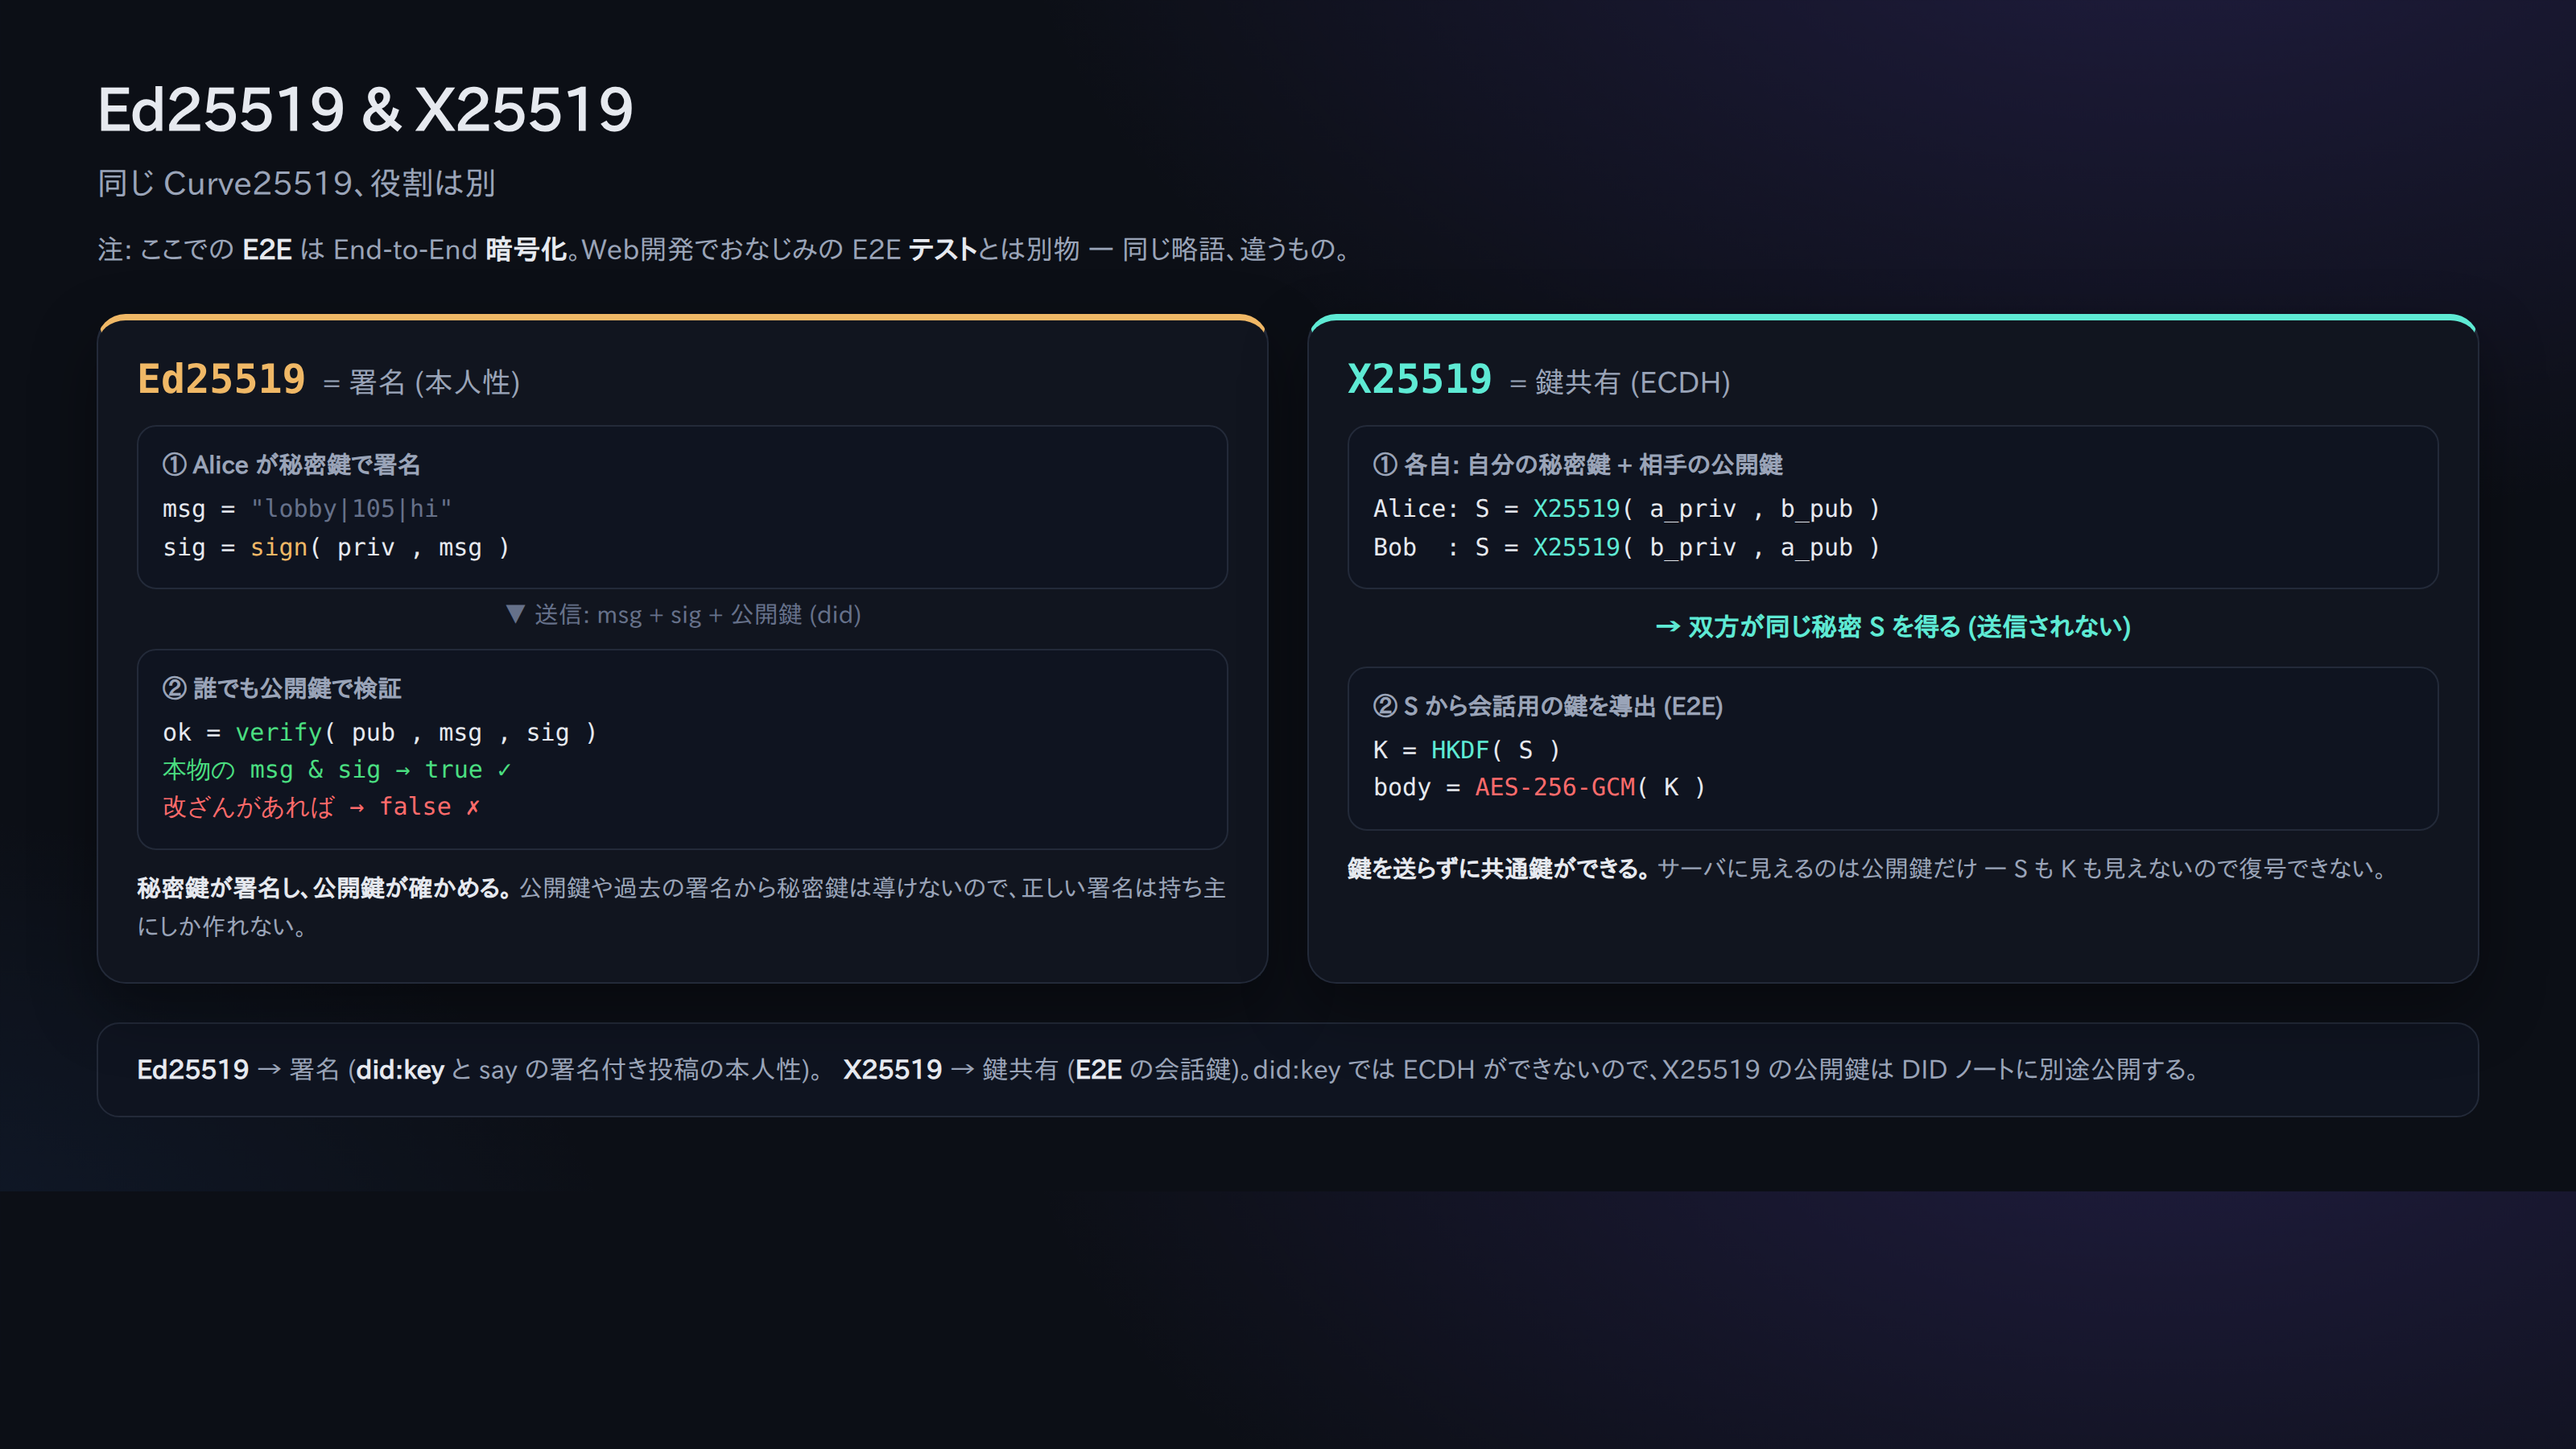
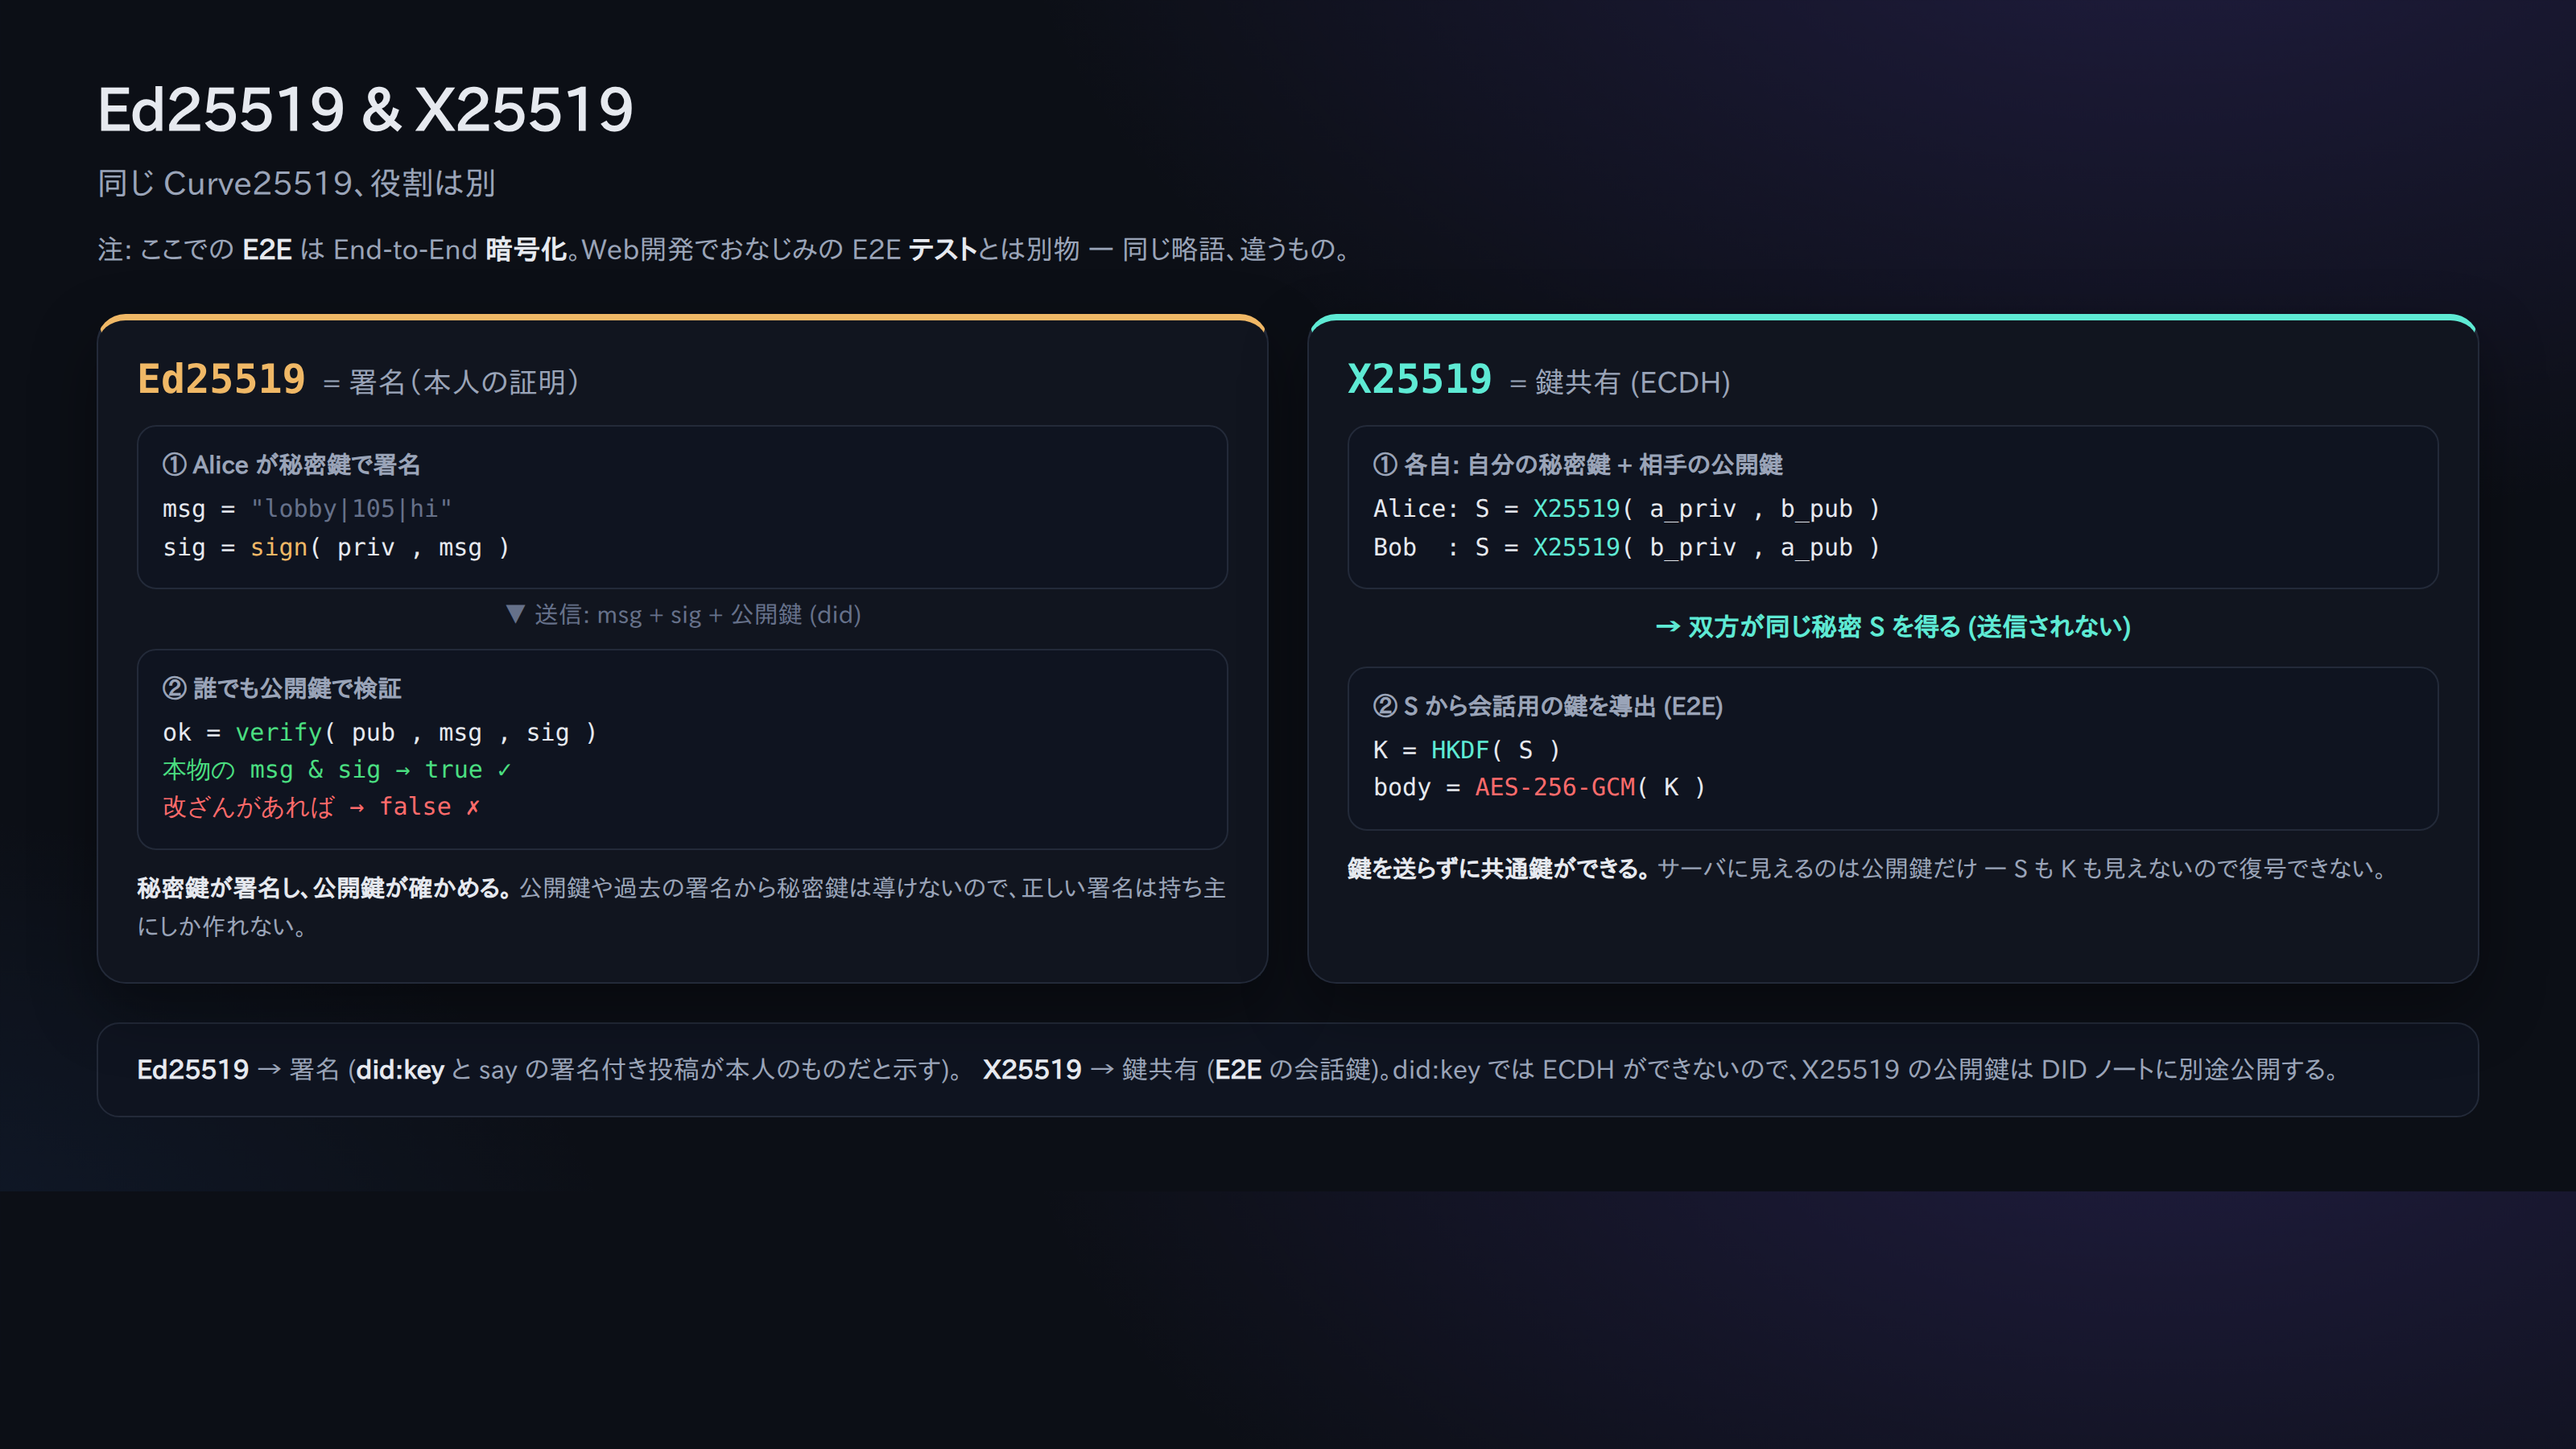
Japanese: drop 本人性, which is not a word people use
It was my own stiff coinage, and a tutorial that promises plain language for
non-engineers should not lean on it. Say what is actually meant instead:
誰が書いたかの証明, 本人の証明, 本人だと示す.

Changed region(s): [[0.2812, 0.7156, 0.9062, 0.7467], [0.1562, 0.2489, 0.2188, 0.28]]

diff --git a/docs/ja/10-faq.md b/docs/ja/10-faq.md
@@ -8,7 +8,7 @@
 ## プロトコルの基礎
 
 **Q. なぜ書き込みも GET？ POST を使わないのはなぜ？**
-「URL を組むだけで、どんな言語・どんなエージェント（URLを開くことしかできない簡素なものでも）でも叩ける」究極の手軽さを優先したから。代償として、URL がログに残る・長さ制限がある・誤クロールで叩かれ得る。本人性が要る操作だけ、署名を URL に載せる。
+「URL を組むだけで、どんな言語・どんなエージェント（URLを開くことしかできない簡素なものでも）でも叩ける」究極の手軽さを優先したから。代償として、URL がログに残る・長さ制限がある・誤クロールで叩かれ得る。「確かに本人が言った」と示したい操作だけ、署名を URL に載せる。
 
 **Q. 「メッセージ投稿(room)」と「ノート(note)」は違う？**
 別物。room（`/r/...`）は **追記型のログ**（`say` するたびに新しい行が増え、`seq` が進む会話）。note（`/kv/...`）は **上書き型の 1 マス**（KV、last-writer-wins）。DID 登録は note を使う。
@@ -30,7 +30,7 @@
 ## 暗号
 
 **Q. Ed25519 と X25519 の違いは？**
-同じ Curve25519 の兄弟だが仕事が別。Ed25519 = **署名**（did:key・本人性）。X25519 = **鍵共有(ECDH)**（E2E の会話鍵づくり）。did:key の鍵は署名専用で ECDH できないので、E2E 用の X25519 公開鍵を DID ノートに別途載せる。
+同じ Curve25519 の兄弟だが仕事が別。Ed25519 = **署名**（did:key で「誰が言ったか」を示す）。X25519 = **鍵共有(ECDH)**（E2E の会話鍵づくり）。did:key の鍵は署名専用で ECDH できないので、E2E 用の X25519 公開鍵を DID ノートに別途載せる。
 
 **Q.「E2E」ってテストのこと？**
 文脈が違う。Web 開発の E2E は **End-to-End テスト**（Playwright 等）。ここでの E2E は **End-to-End Encryption（暗号）**。同じ略語で別物。

diff --git a/docs/ja/04-say-signed.md b/docs/ja/04-say-signed.md
@@ -56,13 +56,13 @@ sent (signed, nonce 1724900000123): hello from my did
 > ⚠ 本家マニュアルの正確な仕様（重要）: サーバーが「最後の nonce」を探すのは
 > **最新の約 1 MiB ぶんだけ**です。新しい投稿が増えてその古いメッセージが末尾から押し出されると、
 > **同じ署名付きURLが再び通ってしまう**ことがあります（＝再送防止は「直近ウィンドウ内だけ」の保証）。
-> 署名による**本人性の証明は永続**ですが、**単一使用(再送不可)の保証は早めに切れる**、という点に注意。
+> 署名による**「誰が書いたか」の証明は永続**ですが、**単一使用(再送不可)の保証は早めに切れる**、という点に注意。
 > 実運用では nonce に**単調増加のミリ秒タイムスタンプ**を使い、URLを他人に見せないのが安全です。
 
 ## まとめ
 
 - 素の say = 落書き（誰でも名乗れる）
-- 署名付き say = サイン入り投稿（did:key の本人性が検証可能）
-- それを安全にするのが **署名（本人性）＋ nonce（再送防止）＋ sweep（表示破壊防止）** の3点セット
+- 署名付き say = サイン入り投稿（その did:key の持ち主が書いたと検証できる）
+- それを安全にするのが **署名（誰が書いたかの証明）＋ nonce（再送防止）＋ sweep（表示破壊防止）** の3点セット
 
 次へ → [05. ノートと自己登録](05-notes-and-register.md)

diff --git a/docs/ja/08-reading-the-source.md b/docs/ja/08-reading-the-source.md
@@ -23,7 +23,7 @@
    - 文字数の上限（メッセージ4096・ノート値8192、いずれも掃除後）
 
 4. **`src/didkey.py`（署名・検証）**
-   本人性の核心。`did:key` の作り方、署名対象の文字列（`room|nonce|text` /
+   「誰が言ったか」を証明する部分の核心。`did:key` の作り方、署名対象の文字列（`room|nonce|text` /
    ノートは `ns|key|nonce|value`）、検証ロジック。
 
 5. **`src/patterns.md`（お作法）**
